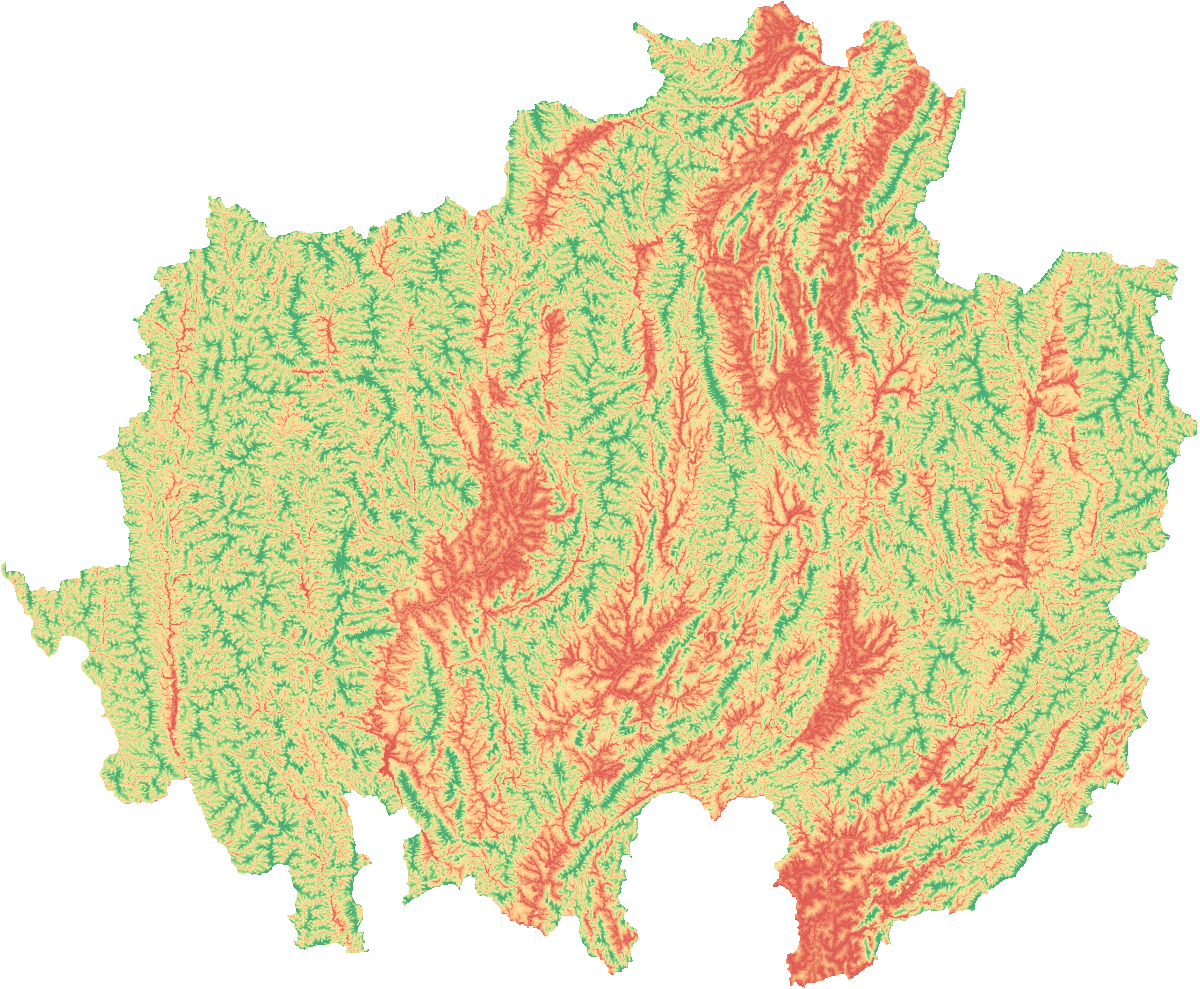
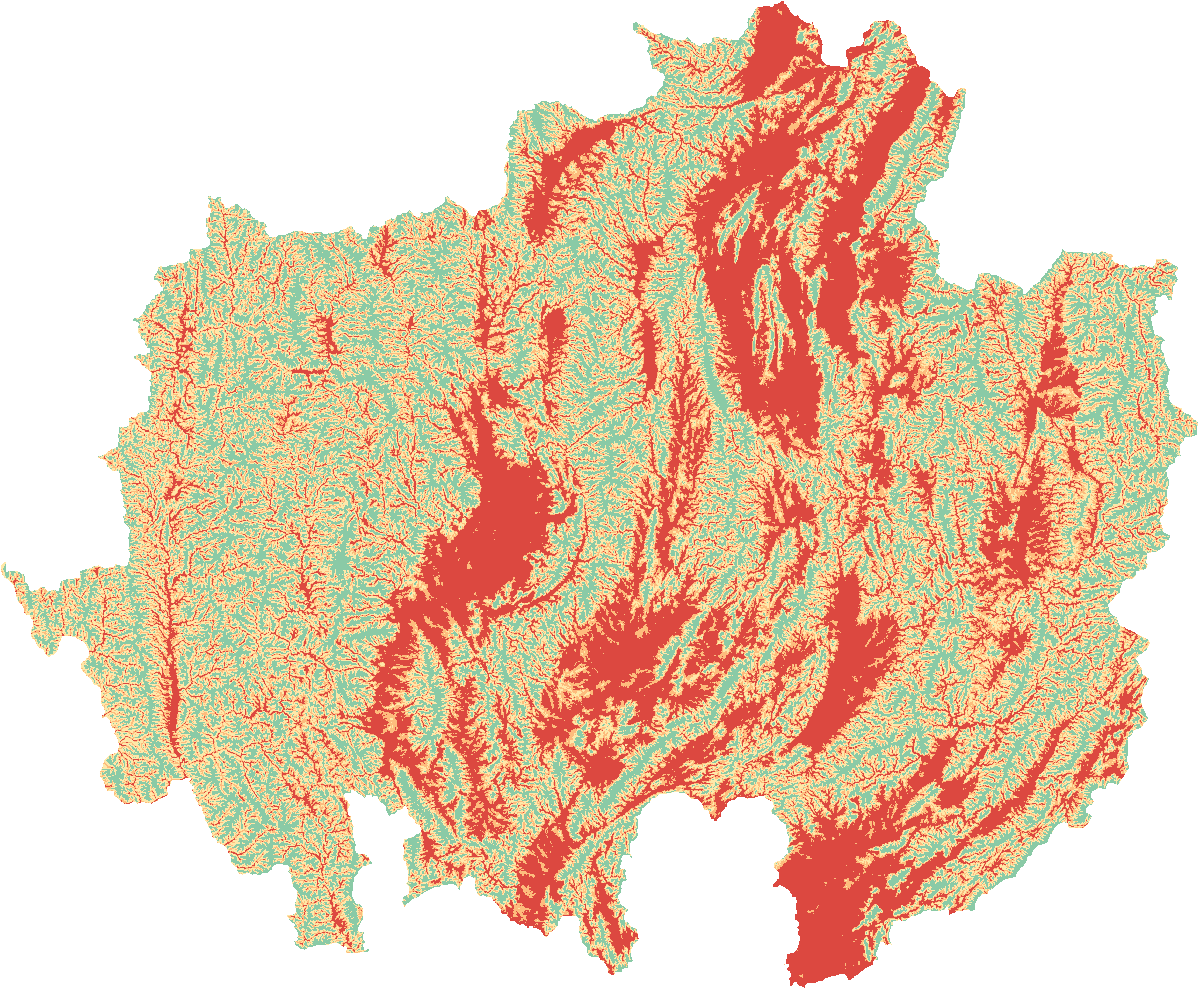
feat(viz): banded warning-map rasters — no more fog
User: "ไม่อยากได้ เป็นแบบ กลุ่มหมอกๆ อยากให้มันโดดเด่น."

The hazard rasters were painting a continuous colour ramp onto a 29×24
canvas and letting the browser bilinear-stretch it — the result read as
a translucent fog smeared over the basemap. Rebuilt the rendering to
work like an actual weather-warning map: smooth zone boundaries, but
solid, discrete colour classes.

Frontend (renderBandedGridToDataURL):
- Bilinear-upsamples the coarse Open-Meteo grid 10× in JS (29×24 →
  290×240) so class boundaries follow smooth contours instead of cell
  squares.
- Then quantises each pixel into a hard colour band — no gradient:
    live:    ≥0.08 green · ≥0.20 yellow · ≥0.40 orange · ≥0.55 red
    wetness: ~5 mm sky · ~15 mm blue · ~30 mm royal · ~50 mm+ navy
- Band alpha steps up with severity (130 → 225) and overlay opacity
  bumped 0.78 → 0.88. The zones now sit ON the map instead of tinting it.
- AOI mask is bilinear-sampled too (cut at 0.5) so the Thailand border
  clip stays smooth at the upsampled resolution.
- Old continuous renderGridToDataURL + its ramp imports deleted.

Pipeline (07_static_overlay.py):
- Same banding applied to the prebaked GEE static PNG (t = 0 / 0.25 /
  0.50 / 0.70 class breaks, stepped alpha). Solid bands also compress
  far better: 1.9 MB → 298 KB.

Verified in dev preview: live mode now shows bold red severe pockets in
Chiang Rai / Nan, orange high corridors, and a yellow watch fringe with
[…]

diff --git a/src/components/FloodMap.tsx b/src/components/FloodMap.tsx
@@ -31,8 +31,6 @@ import {
   buildTambonRows,
   computeLiveGrid,
   layerModes,
-  riskRampColor,
-  wetnessRampRGBA,
   type LayerMode,
   type TambonCollection,
   type TambonRow,
@@ -269,41 +267,89 @@ function pointInGeom(lng: number, lat: number, geom: GeoJSON.Polygon | GeoJSON.M
   return false;
 }
 
-function renderGridToDataURL(
+type Band = { min: number; rgba: [number, number, number, number] };
+
+/** Weather-warning-style banded raster: bilinear-upsample the coarse grid,
+ *  then quantise into solid colour classes. Sharp, bold zones instead of
+ *  the foggy blob the browser makes of a 29×24 canvas. */
+function renderBandedGridToDataURL(
   cols: number,
   rows: number,
   values: number[] | Float32Array,
   cap: number,
-  ramp: (t: number) => [number, number, number, number],
-  /** Optional 0/1 mask (or any non-zero == inside). Cells where mask[i] is
-   *  falsy render fully transparent — used to clip overlays to the
-   *  Thailand AOI (the gridded data covers the bbox, which spills into
-   *  Myanmar/Laos). */
+  bands: Band[], // ascending by min; value below bands[0].min → transparent
   mask?: number[] | Float32Array | null,
+  scale = 10,
 ): string | null {
   if (typeof document === "undefined") return null;
+  const W = cols * scale;
+  const H = rows * scale;
   const canvas = document.createElement("canvas");
-  canvas.width = cols;
-  canvas.height = rows;
+  canvas.width = W;
+  canvas.height = H;
   const ctx = canvas.getContext("2d");
   if (!ctx) return null;
-  const img = ctx.createImageData(cols, rows);
+  const img = ctx.createImageData(W, H);
   const buf = img.data;
-  for (let i = 0; i < cols * rows; i++) {
-    if (mask && !mask[i]) {
-      buf[i * 4 + 3] = 0;
-      continue;
+
+  const sample = (arr: number[] | Float32Array, gx: number, gy: number): number => {
+    const x0 = Math.max(0, Math.min(cols - 1, Math.floor(gx)));
+    const y0 = Math.max(0, Math.min(rows - 1, Math.floor(gy)));
+    const x1 = Math.min(cols - 1, x0 + 1);
+    const y1 = Math.min(rows - 1, y0 + 1);
+    const fx = Math.max(0, Math.min(1, gx - x0));
+    const fy = Math.max(0, Math.min(1, gy - y0));
+    const v00 = Number(arr[y0 * cols + x0]) || 0;
+    const v10 = Number(arr[y0 * cols + x1]) || 0;
+    const v01 = Number(arr[y1 * cols + x0]) || 0;
+    const v11 = Number(arr[y1 * cols + x1]) || 0;
+    return v00 * (1 - fx) * (1 - fy) + v10 * fx * (1 - fy) + v01 * (1 - fx) * fy + v11 * fx * fy;
+  };
+
+  for (let y = 0; y < H; y++) {
+    const gy = (y + 0.5) / scale - 0.5;
+    for (let x = 0; x < W; x++) {
+      const gx = (x + 0.5) / scale - 0.5;
+      const o = (y * W + x) * 4;
+      if (mask && sample(mask, gx, gy) < 0.5) {
+        buf[o + 3] = 0;
+        continue;
+      }
+      const t = Math.min(1, Math.max(0, sample(values, gx, gy) / cap));
+      let band: Band | null = null;
+      for (const b of bands) {
+        if (t >= b.min) band = b;
+        else break;
+      }
+      if (!band) {
+        buf[o + 3] = 0;
+        continue;
+      }
+      buf[o] = band.rgba[0];
+      buf[o + 1] = band.rgba[1];
+      buf[o + 2] = band.rgba[2];
+      buf[o + 3] = band.rgba[3];
     }
-    const t = Math.min(1, Math.max(0, values[i] / cap));
-    const c = ramp(t);
-    buf[i * 4] = c[0];
-    buf[i * 4 + 1] = c[1];
-    buf[i * 4 + 2] = c[2];
-    buf[i * 4 + 3] = c[3];
   }
   ctx.putImageData(img, 0, 0);
   return canvas.toDataURL();
 }
+
+// Live risk bands — tier colours, solid and bold.
+const LIVE_BANDS: Band[] = [
+  { min: 0.08, rgba: [26, 152, 80, 130] },
+  { min: 0.2, rgba: [254, 224, 139, 190] },
+  { min: 0.4, rgba: [253, 174, 97, 210] },
+  { min: 0.55, rgba: [215, 48, 39, 225] },
+];
+
+// Wetness bands — mm of 7-day rain against the 80 mm cap.
+const WETNESS_BANDS: Band[] = [
+  { min: 0.06, rgba: [127, 208, 240, 140] }, // ~5 mm
+  { min: 0.19, rgba: [59, 130, 246, 180] }, // ~15 mm
+  { min: 0.38, rgba: [29, 78, 216, 205] }, // ~30 mm
+  { min: 0.63, rgba: [30, 41, 120, 225] }, // ~50 mm+
+];
 
 function scoreOfRow(row: TambonRow, mode: LayerMode | null): number {
   if (mode === "wetness") return row.wetnessNorm;
@@ -783,18 +829,18 @@ export function FloodMap({ copy, sources }: FloodMapProps) {
     }
     if (layerMode !== "wetness" || !grid) return;
     const aoiMask = grid.static_norm; // 0 outside AOI (sampled from susceptibility.tif)
-    const url = renderGridToDataURL(
+    const url = renderBandedGridToDataURL(
       grid.cols,
       grid.rows,
       grid.rain_7d_mm,
       grid.wetness_norm_cap_mm,
-      wetnessRampRGBA,
+      WETNESS_BANDS,
       aoiMask,
     );
     if (!url) return;
     const [w, s, e, n] = grid.grid_bbox;
     wetnessOverlayRef.current = L.imageOverlay(url, [[s, w], [n, e]], {
-      opacity: 0.7,
+      opacity: 0.88,
       interactive: false,
       zIndex: Z_HAZARD,
     }).addTo(map);
@@ -812,25 +858,11 @@ export function FloodMap({ copy, sources }: FloodMapProps) {
     if (layerMode !== "live" || !grid) return;
     const live = computeLiveGrid(grid);
     const aoiMask = grid.static_norm;
-    const url = renderGridToDataURL(
-      grid.cols,
-      grid.rows,
-      live,
-      1.0,
-      (t) => {
-        const c = riskRampColor(t);
-        const m = c.match(/rgb\((\d+),(\d+),(\d+)\)/);
-        if (!m) return [0, 0, 0, 0];
-        const [r, g, b] = [+m[1], +m[2], +m[3]];
-        const a = Math.round(Math.min(220, 80 + 200 * t));
-        return [r, g, b, a];
-      },
-      aoiMask,
-    );
+    const url = renderBandedGridToDataURL(grid.cols, grid.rows, live, 1.0, LIVE_BANDS, aoiMask);
     if (!url) return;
     const [w, s, e, n] = grid.grid_bbox;
     liveOverlayRef.current = L.imageOverlay(url, [[s, w], [n, e]], {
-      opacity: 0.78,
+      opacity: 0.88,
       interactive: false,
       zIndex: Z_HAZARD,
     }).addTo(map);

diff --git a/pipeline/scripts/07_static_overlay.py b/pipeline/scripts/07_static_overlay.py
@@ -33,28 +33,27 @@ PUBLIC_DATA.mkdir(parents=True, exist_ok=True)
 PNG_OUT = PUBLIC_DATA / "static_overlay.png"
 META_OUT = PUBLIC_DATA / "static_overlay_meta.json"
 
-# Diverging green→yellow→red ramp matching `riskRampColor` in src/lib/tambon.ts.
-RAMP = [
-    (0.00, (26, 152, 80)),
-    (0.25, (166, 217, 106)),
-    (0.50, (254, 224, 139)),
-    (0.75, (253, 174, 97)),
-    (1.00, (215, 48, 39)),
+# Weather-warning-style bands: solid tier colours with hard class edges.
+# (min_t, (r, g, b), alpha) — matches LIVE_BANDS in FloodMap.tsx so the
+# static and live layers read as the same visual language.
+BANDS = [
+    (0.00, (26, 152, 80), 130),
+    (0.25, (254, 224, 139), 190),
+    (0.50, (253, 174, 97), 210),
+    (0.70, (215, 48, 39), 225),
 ]
 
 
-def ramp_lookup(t: np.ndarray) -> np.ndarray:
-    """Interpolate t∈[0,1] across RAMP; returns (h, w, 3) uint8."""
-    out = np.zeros(t.shape + (3,), dtype=np.float32)
-    for i in range(len(RAMP) - 1):
-        s0, c0 = RAMP[i]
-        s1, c1 = RAMP[i + 1]
-        m = (t >= s0) & (t <= s1)
-        f = (t - s0) / max(s1 - s0, 1e-9)
+def ramp_lookup(t: np.ndarray) -> tuple[np.ndarray, np.ndarray]:
+    """Quantise t∈[0,1] into solid colour bands; returns ((h,w,3) uint8, (h,w) alpha)."""
+    rgb = np.zeros(t.shape + (3,), dtype=np.uint8)
+    alpha = np.zeros(t.shape, dtype=np.uint8)
+    for min_t, color, a in BANDS:
+        m = t >= min_t
         for ch in range(3):
-            out[..., ch] = np.where(m, c0[ch] + f * (c1[ch] - c0[ch]), out[..., ch])
-    out = np.clip(out, 0, 255)
-    return out.astype(np.uint8)
+            rgb[..., ch] = np.where(m, color[ch], rgb[..., ch])
+        alpha = np.where(m, a, alpha).astype(np.uint8)
+    return rgb, alpha
 
 
 @click.command()
@@ -92,8 +91,8 @@ def main(max_dim: int) -> None:
     click.echo(f"[norm] 2-98 pct = [{vmin:.3f}, {vmax:.3f}]")
     t = np.clip((susc - vmin) / max(vmax - vmin, 1e-9), 0, 1)
 
-    rgb = ramp_lookup(t)  # (h, w, 3)
-    alpha = np.where(valid, 200, 0).astype(np.uint8)  # 200/255 ≈ 78% opaque
+    rgb, band_alpha = ramp_lookup(t)  # (h, w, 3), (h, w)
+    alpha = np.where(valid, band_alpha, 0).astype(np.uint8)
 
     rgba = np.dstack([rgb, alpha])
     Image.fromarray(rgba, "RGBA").save(PNG_OUT, optimize=True)
@@ -108,7 +107,7 @@ def main(max_dim: int) -> None:
         "height": out_h,
         "norm_low": vmin,
         "norm_high": vmax,
-        "ramp": "green→yellow→red (matches riskRampColor)",
+        "ramp": "banded green/yellow/orange/red at t=0/0.25/0.50/0.70",
     }
     META_OUT.write_text(json.dumps(meta, indent=2, ensure_ascii=False))
     click.echo(f"[write] {META_OUT.name}")
